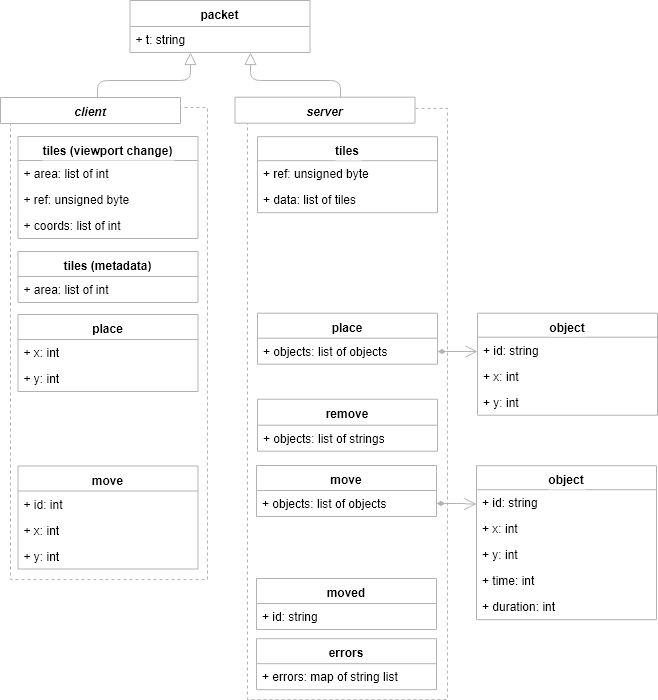
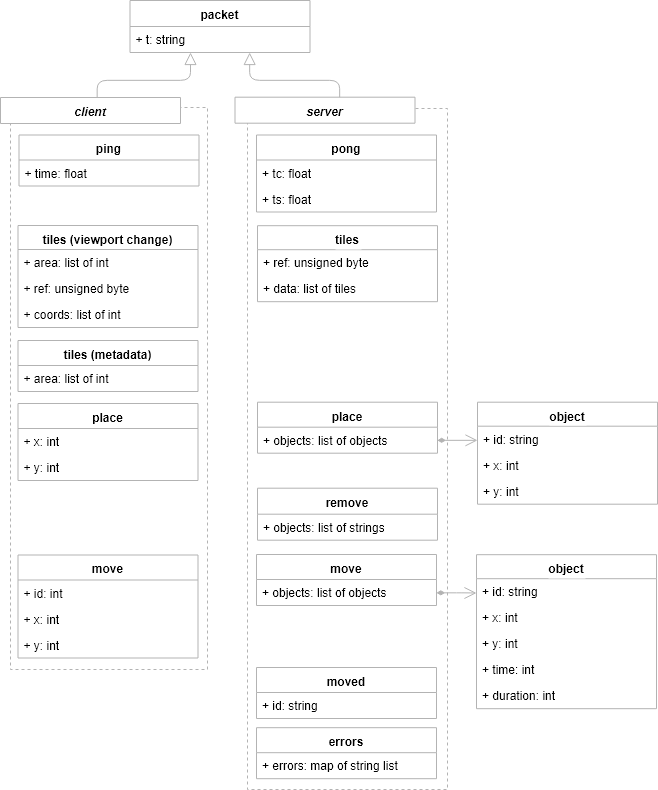
Introduced ping and pong network packets to sync on clock difference between client and server.

diff --git a/app/game.js b/app/game.js
@@ -2,13 +2,17 @@ import Api from 'api';
 
 import Assets from './assets';
 
+const now = () => Date.now() / 1000.0;
+
 export default class Game {
   constructor(canvas) {
     this.canvas = canvas;
     this.ctx = canvas.getContext('2d');
     this.api = new Api();
     this.ts = 0;
+    this.delta = 0;
     this.render = this.render.bind(this);
+    this.ping = this.ping.bind(this);
   }
 
   start() {
@@ -17,11 +21,10 @@ export default class Game {
     }
 
     Assets.load(() => {
+      this.api.on('open', this.onopen.bind(this));
+      this.api.on('close', this.onclose.bind(this));
+      this.api.on('pong', this.onpong.bind(this));
       this.api.connect();
-      window.requestAnimationFrame(ts => {
-        this.ts = ts;
-        this.render(ts);
-      });
     });
   }
 
@@ -33,6 +36,41 @@ export default class Game {
     }
 
     this.screen.render(delta);
-    window.requestAnimationFrame(this.render);
+    this.requestId = window.requestAnimationFrame(this.render);
+  }
+
+  onopen() {
+    this.ping();
+    this.timer = setInterval(this.ping, 10000);
+    window.requestAnimationFrame(ts => {
+      this.ts = ts;
+      this.render(ts);
+    });
+  }
+
+  onclose() {
+    window.cancelAnimationFrame(this.requestId);
+    this.requestId = null;
+    clearInterval(this.timer);
+    this.timer = null;
+  }
+
+  ping() {
+    this.api.send({
+      t: 'ping',
+      time: now()
+    });
+  }
+
+  onpong(p) {
+    console.log('game > onpong: %o', p);
+    const t = now();
+    const roundtrip = t - p.tc;
+    const latency = roundtrip / 2;
+    const delta = p.ts - t;
+    this.delta = delta + latency;
+
+    console.log('game > latency: %sms; delta: %ss',
+      (latency * 1000).toFixed(1), this.delta.toFixed(6));
   }
 }

diff --git a/app/api/mock.js b/app/api/mock.js
@@ -26,6 +26,9 @@ export default class MockAPI {
   send(p) {
     console.log('api > send: %o', p);
     switch (p.t) {
+      case 'ping':
+        this.controller.ping(p);
+        break;
       case 'tiles':
         toxic(() => this.controller.tiles(p));
         break;
@@ -46,6 +49,13 @@ class Controller {
     this.eventEmitter = eventEmitter;
     this.objects = [];
     setTimeout(() => setInterval(this.recycle.bind(this), 1000), 5000);
+  }
+
+  ping(p) {
+    this.eventEmitter.emit('pong', {
+      tc: p.time,
+      ts: Date.now() / 1000.0
+    });
   }
 
   tiles(p) {
@@ -86,14 +96,16 @@ class Controller {
       this.objects.splice(index, 1);
     }
 
-    const duration = 1 + Math.random() * 5;
+    const ts = Date.now();
+    const t = Math.floor(ts / 1000.0);
+    const duration = 1 + Math.floor(Math.random() * 5);
     this.eventEmitter.emit('move', {
       objects: [{
         id: id,
         x: p.x,
         y: p.y,
-        duration: duration,
-        elapsed: 0
+        time: t + 1,
+        duration: duration
       }]
     });
     setTimeout(
@@ -103,7 +115,7 @@ class Controller {
           id: id
         });
       },
-      duration * 1000);
+      duration * 1000 + (ts - t * 1000));
   }
 
   recycle() {

diff --git a/app/screens/demo.js b/app/screens/demo.js
@@ -112,7 +112,7 @@ export default class DemoScreen {
 
   onmove(p) {
     console.log('demo > onmove: %o', p);
-    const ts = Date.now() / 1000.0;
+    const ts = Date.now() / 1000.0 + this.game.delta;
     p.objects.forEach(o => {
       const id = o.id;
       const index = this.objects.findIndex(o => o.id === id);

diff --git a/README.md b/README.md
@@ -51,6 +51,26 @@ Sent by the server when packet validation fails.
 | t          | string             | errors                                                       |
 | errors     | map of string list | The map uses  a key to refer to a particular packet field name and a list of strings for multiple error messages. |
 
+### ping
+
+Sent by the client to the server to sync on clock difference.
+
+| Field Name | Field Type | Notes                   |
+| ---------- | ---------- | ----------------------- |
+| t          | string     | ping                 |
+| time       | float      | The client unix timestamp in seconds (including milliseconds as the decimal part). |
+
+### pong
+
+Sent by the server to the client in reply to ping packet.
+
+| Field Name | Field Type | Notes                                                        |
+| ---------- | ---------- | ------------------------------------------------------------ |
+| t          | string     | pong                                                         |
+| tc         | float      | The client unix timestamp as sent in ping packet.            |
+| ts         | float      | The server unix timestamp in seconds (including milliseconds as the decimal part).. |
+
+
 ### tiles (viewport change)
 
 Sent by the client when viewport position changes without a need to retrieve corresponding
